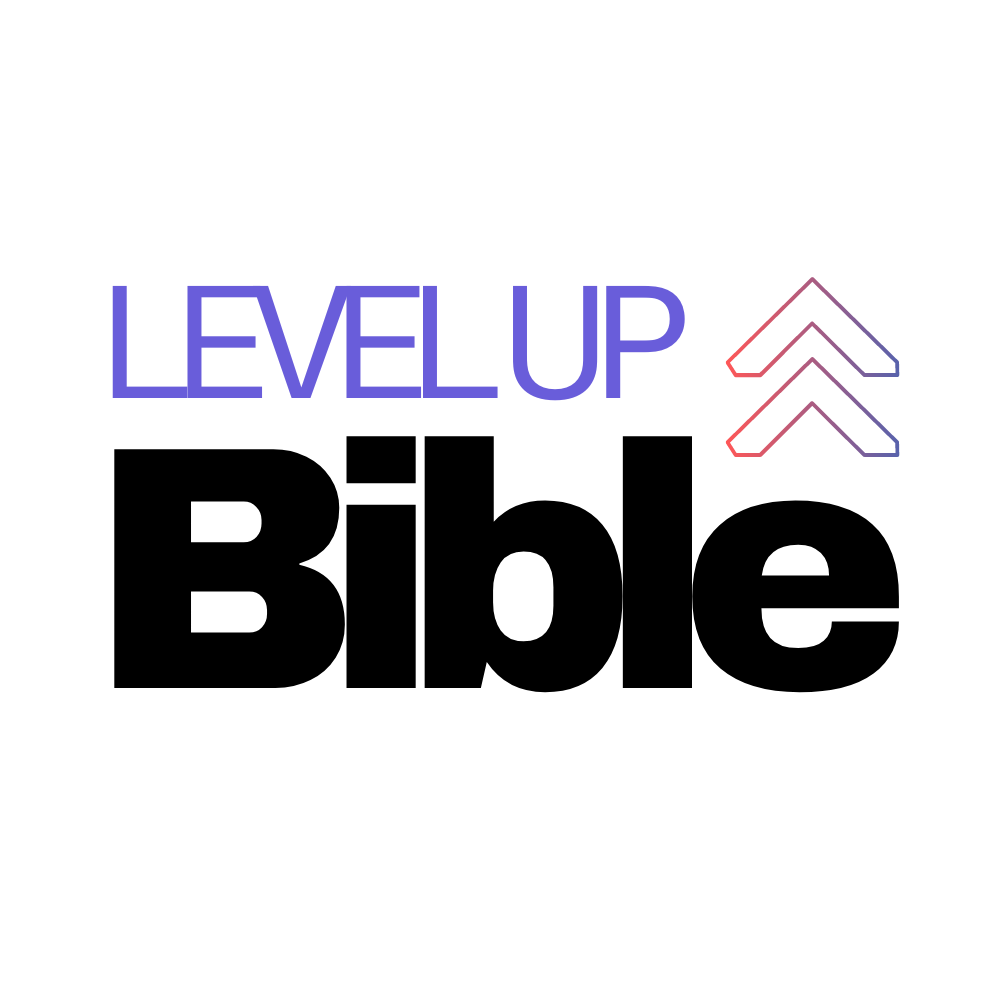
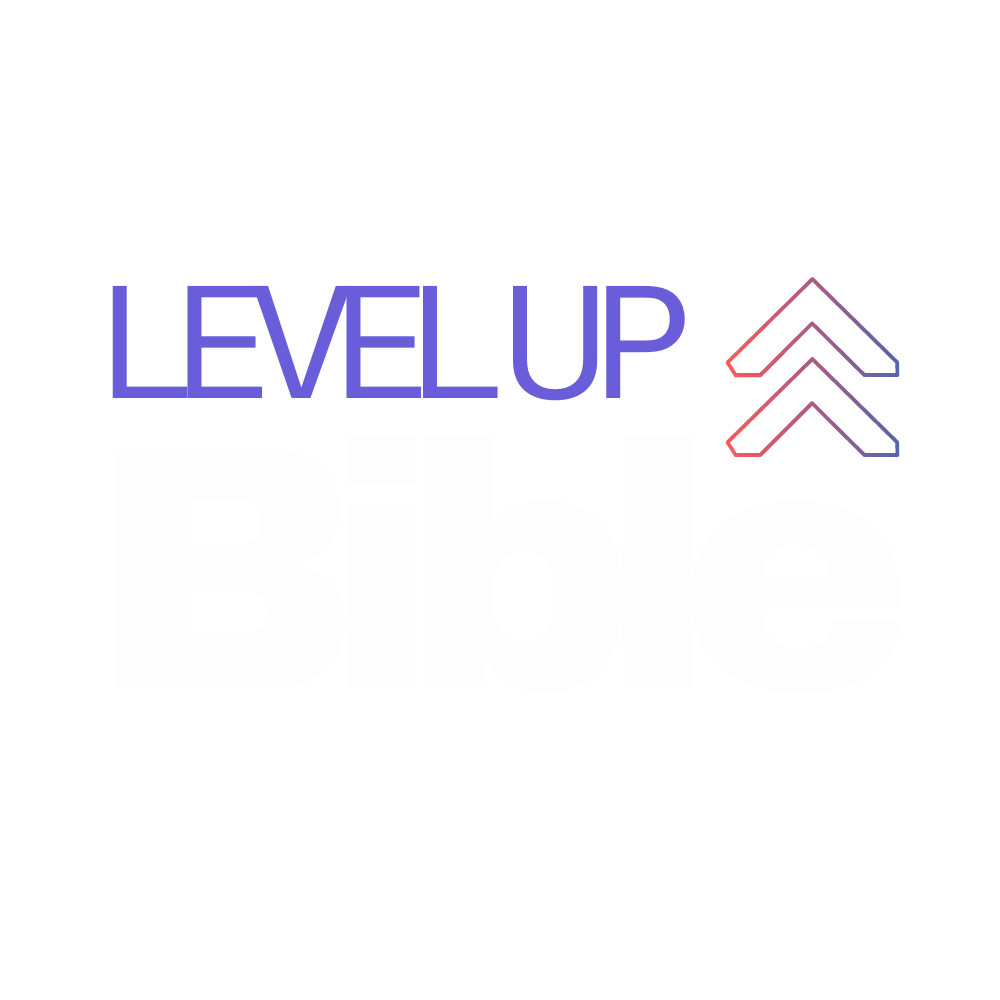
updated UI colors

Changed region(s): [[0.093, 0.434, 0.899, 0.713]]

diff --git a/src/screens/SignUpScreen/SignUpScreen.js b/src/screens/SignUpScreen/SignUpScreen.js
@@ -4,7 +4,6 @@ import CustomInput from "../../components/CustomInput/CustomInput";
 import CustomButton from "../../components/CustomButton/CustomButton";
 import SocialSignInButtons from "../../components/SocialSignInButtons";
 import { useNavigation } from "@react-navigation/native";
-import { auth } from "../../../.expo/firebaseConfig";
 
 const SignUpScreen = () => {
 	const [username, setUsername] = useState("");
@@ -14,13 +13,7 @@ const SignUpScreen = () => {
 
 	const navigation = useNavigation();
 	const handleSignUp = () => {
-		auth
-			.createUserWithUsernameEmailAndPassword(username, email, password)
-			.then((userCredentials) => {
-				const user = userCredentials.user;
-				console.log(user.email);
-			})
-			.catch((error) => alert(error.message));
+		console.warn('signed up');
 	};
 
 	const onRegisterPressed = () => {
@@ -105,11 +98,11 @@ const styles = StyleSheet.create({
 	title: {
 		fontSize: 30,
 		fontWeight: "bold",
-		color: "#051c60",
+		color: "whitesmoke",
 		margin: 20,
 	},
 	text: {
-		color: "gray",
+		color: "lightgray",
 		marginVertical: 10,
 	},
 	link: {

diff --git a/src/navigation/index.js b/src/navigation/index.js
@@ -1,5 +1,5 @@
 import React from "react";
-import { NavigationContainer } from "@react-navigation/native";
+import { NavigationContainer, DefaultTheme } from "@react-navigation/native";
 import { createNativeStackNavigator } from "@react-navigation/native-stack";
 import SignInScreen from "../screens/SignInScreen/SignInScreen";
 import SignUpScreen from "../screens/SignUpScreen/SignUpScreen";
@@ -13,8 +13,17 @@ import NewPasswordSuccessScreen from "../screens/NewPasswordSuccessScreen/NewPas
 const Stack = createNativeStackNavigator();
 
 const Navigation = () => {
+	const MyTheme = {
+		...DefaultTheme,
+		colors: {
+		  ...DefaultTheme.colors,
+		  background: "rgb(22,30,57)",
+		},
+	  };
+	
+	
 	return (
-		<NavigationContainer>
+		<NavigationContainer theme={MyTheme}>
 			<Stack.Navigator screenOptions={{ headerShown: false }}>
 				<Stack.Screen name="SignIn" component={SignInScreen} />
 				<Stack.Screen name="SignUp" component={SignUpScreen} />

diff --git a/src/screens/HomeScreen/HomeScreen.js b/src/screens/HomeScreen/HomeScreen.js
@@ -5,19 +5,18 @@ import { useNavigation } from "@react-navigation/native";
 
 const HomeScreen = () => {
 	const navigation = useNavigation();
-	
+
 	const onSignInPressed = () => {
-		navigation.navigate('SignIn');
+		navigation.navigate("SignIn");
 	};
-	
+
 	return (
 		<View style={styles.root}>
 			<Text style={styles.text}>Welcome Home!</Text>
-			<CustomButton 
-				text="Back to sign in" 
+			<CustomButton
+				text="Back to sign in"
 				type="SECONDARY"
-				onPress={onSignInPressed}
-				></CustomButton>
+				onPress={onSignInPressed}></CustomButton>
 		</View>
 	);
 };
@@ -33,6 +32,7 @@ const styles = StyleSheet.create({
 		fontWeight: "900",
 		textAlign: "center",
 		marginVertical: 25,
+		color: "whitesmoke",
 	},
 });
 

diff --git a/src/screens/EmailConfirmSuccessScreen/EmailConfirmSuccessScreen.js b/src/screens/EmailConfirmSuccessScreen/EmailConfirmSuccessScreen.js
@@ -7,14 +7,6 @@ import { useNavigation } from "@react-navigation/native";
 const EmailConfirmSuccessScreen = () => {
 	const navigation = useNavigation();
 
-	const onConfirmPressed = () => {
-		console.warn("Confirmed!");
-	};
-
-	const onResendPressed = () => {
-		console.warn("Code Resent");
-	};
-
 	const onSignInPressed = () => {
 		navigation.navigate("SignIn");
 	};
@@ -44,16 +36,9 @@ const styles = StyleSheet.create({
 	title: {
 		fontSize: 30,
 		fontWeight: "bold",
-		color: "#051c60",
+		color: "#f5f5f5",
 		margin: 20,
 		textAlign: "center",
-	},
-	text: {
-		color: "gray",
-		marginVertical: 10,
-	},
-	link: {
-		color: "#fdb075",
 	},
 });
 

diff --git a/src/screens/NewPasswordSuccessScreen/NewPasswordSuccessScreen.js b/src/screens/NewPasswordSuccessScreen/NewPasswordSuccessScreen.js
@@ -21,7 +21,7 @@ const NewPasswordSuccessScreen = () => {
 		<ScrollView showsVerticalScrollIndicator={false}>
 			<View style={styles.root}>
 				<Text style={styles.title}>
-					Your password has been successfully reset! 🥳🎉
+					Your password has been successfully reset!  🥳🎉
 				</Text>
 
 				<CustomButton
@@ -42,7 +42,7 @@ const styles = StyleSheet.create({
 	title: {
 		fontSize: 30,
 		fontWeight: "bold",
-		color: "#051c60",
+		color: "whitesmoke",
 		margin: 20,
 		textAlign: "center",
 	},

diff --git a/src/components/CustomButton/CustomButton.js b/src/components/CustomButton/CustomButton.js
@@ -42,7 +42,7 @@ const styles = StyleSheet.create({
 		borderRadius: 5,
 	},
 	container_PRIMARY: {
-		backgroundColor: "#3b71f3",
+		backgroundColor: "#695DDA",
 	},
 	container_SECONDARY: {
 		borderColor: "#3b71f3",
@@ -54,9 +54,9 @@ const styles = StyleSheet.create({
 		color: "white",
 	},
 	text_SECONDARY: {
-		color: "#3b71f3",
+		color: "whitesmoke",
 	},
 	text_TERTIARY: {
-		color: "gray",
+		color: "lightgray",
 	},
 });

diff --git a/src/components/CustomInput/CustomInput.js b/src/components/CustomInput/CustomInput.js
@@ -10,6 +10,7 @@ const CustomInput = ({ value, setValue, placeholder, secureTextEntry }) => {
 				placeholder={placeholder}
 				style={styles.input}
 				secureTextEntry={secureTextEntry}
+				autoCapitalize='none'
 			/>
 		</View>
 	);
@@ -29,7 +30,10 @@ const styles = StyleSheet.create({
 
 		marginVertical: 6,
 	},
-	input: {},
+	input: {
+		color: 'black',
+		fontWeight: '400'
+	},
 });
 
 export default CustomInput;

diff --git a/App.js b/App.js
@@ -1,4 +1,4 @@
-import { StyleSheet, Text, SafeAreaView } from "react-native";
+import { StyleSheet, SafeAreaView } from "react-native";
 import React from "react";
 import Navigation from "./src/navigation";
 
@@ -15,6 +15,6 @@ export default App;
 const styles = StyleSheet.create({
 	root: {
 		flex: 1,
-		backgroundColor: "#F9FBFC",
+		backgroundColor: "rgb(22,30,57)",
 	},
 });

diff --git a/src/screens/NewPasswordScreen/NewPasswordScreen.js b/src/screens/NewPasswordScreen/NewPasswordScreen.js
@@ -55,7 +55,7 @@ const styles = StyleSheet.create({
 	title: {
 		fontSize: 30,
 		fontWeight: "bold",
-		color: "#051c60",
+		color: "whitesmoke",
 		margin: 20,
 	},
 	text: {

diff --git a/src/screens/ResetPasswordScreen/ResetPasswordScreen.js b/src/screens/ResetPasswordScreen/ResetPasswordScreen.js
@@ -49,7 +49,7 @@ const styles = StyleSheet.create({
 	title: {
 		fontSize: 30,
 		fontWeight: "bold",
-		color: "#051c60",
+		color: "whitesmoke",
 		margin: 20,
 	},
 	text: {
